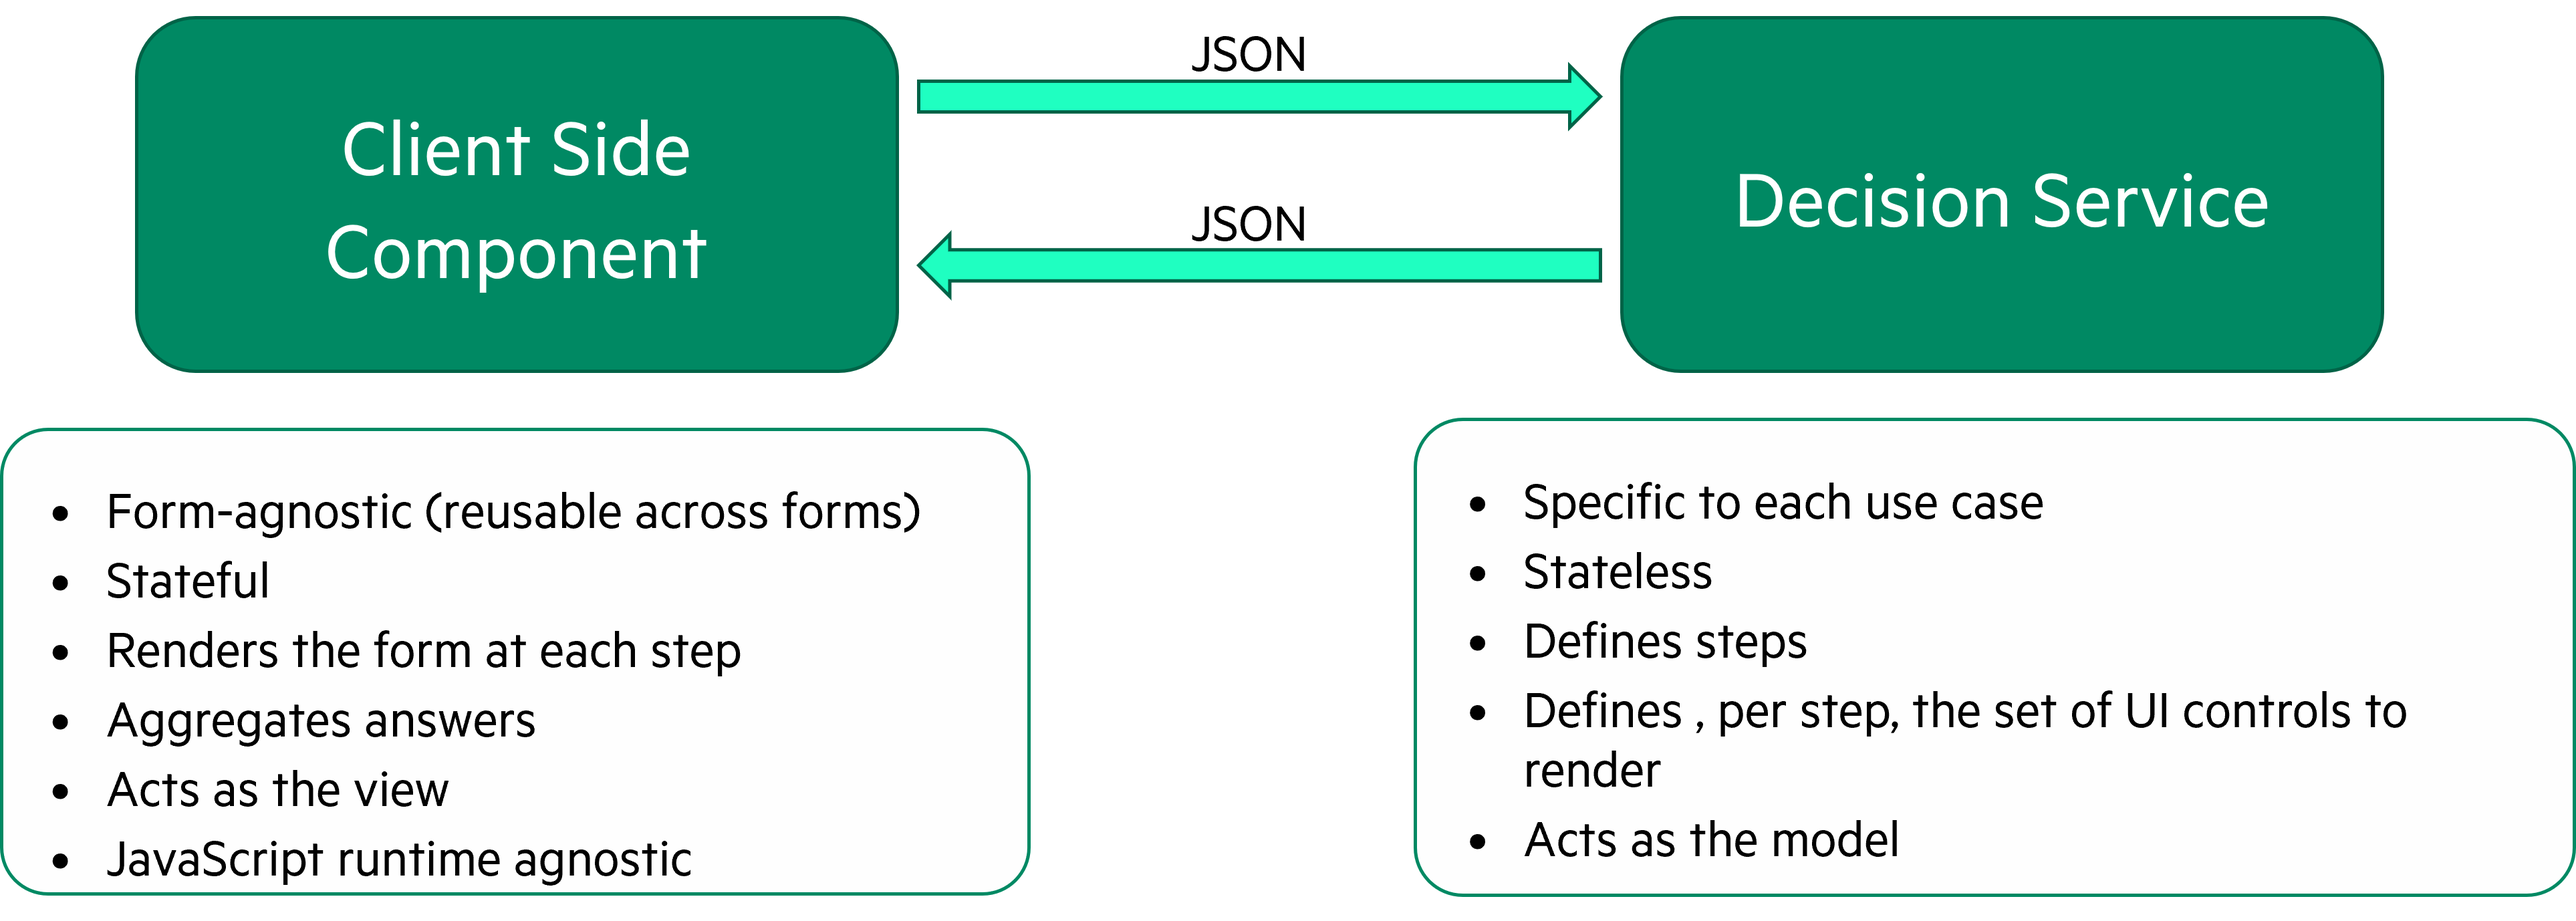
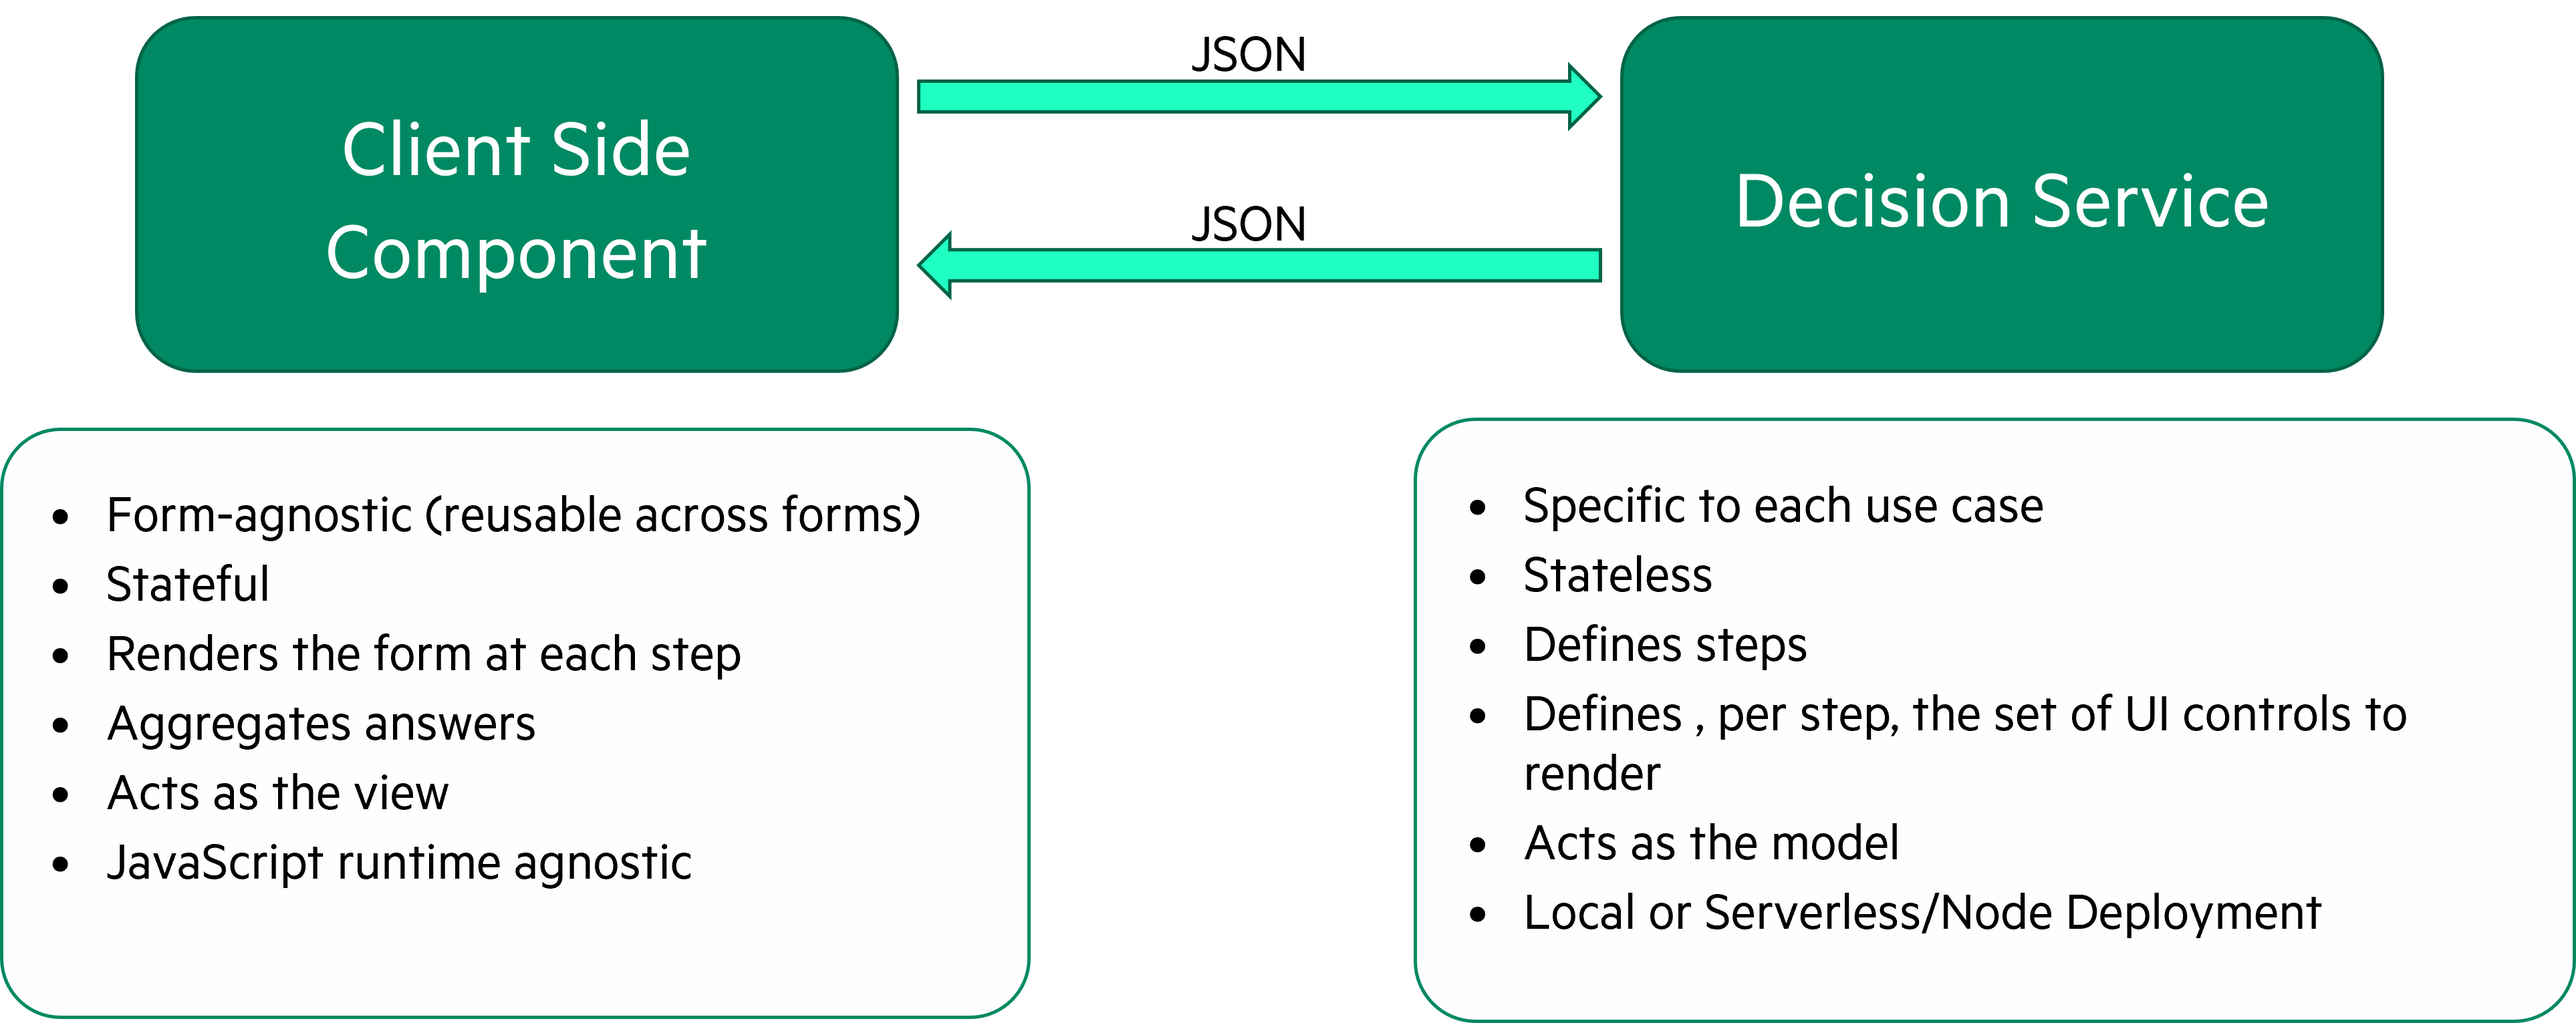
rm

diff --git a/DynamicForms/README.md b/DynamicForms/README.md
@@ -43,8 +43,6 @@ Rules define the model for what, when, and how to present prompts to an end user
 </figure>
 
 Typically, a client side component is written and maintained by a developer  while the form's rule-driven logic is written by business analysts who  best understand the subject domain of the form.
- 
-
 
 The communication between the rule author and front end developer, as well as between the actual artifacts they each produce, is facilitated by a well documented schema for the JSON to exchange IN and OUT. 
 
@@ -83,7 +81,6 @@ As more rulesheets are added to our Ruleflow, Ruletests can be run against entir
 </p>
 
 
-
 ## Building Dynamic Forms with Corticon.js
 
 It may be easiest to conceptualize Corticon.js Dynamic Forms by first checking out the samples that you can interact with as an end user, leveraging the 'test driver' web page. You can launch it right away at [this link](https://refined-github-html-preview.kidonng.workers.dev/corticon/corticon.js-samples/raw/master/DynamicForms/CSC/client.html), or review the HTML [here](https://github.com/corticon/corticon.js-samples/blob/master/DynamicForms/CSC/client.html). 
@@ -95,69 +92,64 @@ The Dynamic Forms in the sample page are rendered by a reusable Client Side Comp
 
 This framework--separating the CSC from the rules--promotes agility for development teams, as it distinguishes the 'instructions' for what to present to the user (defined in a Corticon.js decision service) and the code that renders the form based upon these instructions.
 
-Here is a visual representation of the interaction between the CSC and decision service:
 
-![Big picture view](docs/images/bigPic.PNG)
+The CSC does not know the questions to be asked at each step and what the answers mean but it knows how to render these questions and collect the answers.
 
-The CSC does not know the questions to be asked at each step and what the answers mean but it knows
-how to render these questions and collect the answers.
+The decision service driving the dynamic forms, specify what the questions, the constraints on questions and where to store the answers.  The decision services do not know the current state of the questionnaire but know what to do at each step.
 
-The decision service (DS) driving the dynamic forms, specify what the questions, the constraints on questions and where to store the
-answers.  The DS do not know the current state of the questionnaire but know what to do at each step.
-
-Typically, a CSC is written and maintained by a developer or a team of developers while the DS are written by business analysts 
+Typically, a CSC is written and maintained by a developer or a team of developers while the decision services are written by business analysts 
 who understand well the problem domain of the questionnaire.
 
 Here is a summary of the roles and responsibilities:
 
-![Big picture view](docs/images/RolesResponsibilities.PNG)
+![Big picture view](docs/images/architecture.PNG)
 
 ## Local versus Remote Decision Services
 
-It is typical for the DS to run in process with the CSC or in a remote environment.
+Decision service can be run in process within the CSC or maintained and invoked in a remote environment.
 
-For the remote option, Corticon.js supports deployments to any of 
-the major cloud vendors Serverless environments (AWS Lambda. Azure and GCP functions), 
-and to any Node.js server or traditional Java server running either in the cloud or on premises (traditional server deployments).
+For the remote option, Corticon.js supports deployments to:
 
-Of course, an in-process deployment will provide instant response time, however, there can be situations where you may want to run the model remotely.  
-Here are the cases we have encountered with customers:
-1) For Mobile Apps: a decision service hosted remotely can be updated very easily without having 
-   to force the user to reinstall the app.
-2) Security:
+-  Any of the major cloud vendors' serverless environments (AWS Lambda, Azure and GCP functions)
+-  Node.js servers
+-  Traditional Java server running either in the cloud or on premises (traditional server deployments)
+
+In-process deployments provide essentially instant response time, however, there are considerations for when it might make more sense to run maintain this logic in remote environments, such as:
+
+- For Mobile Apps: a decision service hosted remotely can be updated very easily without having to force the user to reinstall the app.
+- To address security:
       * we don’t want to expose some of the data used in the decision process
       * we want to have the decision service access various data sources inside the firewall.
       * we don't to risk exposing the decision service to reverse engineering 
 
-This is illustrated in the 2 diagrams below
+There are only minor distinctions between how the CSC and decision service interactions take place when running in-process or remotely:
 
 ![In-process decision service](docs/images/LocalDS.png)
 
 ![Remote decision service](docs/images/RemoteDS.png)
 
-# More Information
+## Building and integrating a rule-driven form's components
 
-For more detail on the CSC and the DS please refer to these documents:
-1. [Authoring a decision service (DS)](docs/AuthoringDecisionService.md)
+For more detail on the CSC and the decision service please refer to these documents:
+
+1. [Authoring a decision service (decision service)](docs/AuthoringDecisionService.md)
 2. [Authoring a client side component (CSC)](docs/AuthoringClientSideComponents.md)
 
-# Benefits
+## Summary
 
-A single component for rendering dynamic questionnaires can be reused with multiple 
-applications as illustrated below:
+<figure>
+<img align="right" width="400"  src="docs/images/SameModelforDifferentRenderersSmaller.png" 
+ title="Rule Vocabulary">
+</figure>
 
-![Reuse CSC across applications](docs/images/ReuseCSCAcrossAppsSmaller.jpg)
+- A single component for rendering dynamic questionnaires can be reused with multiple applications 
+- In other words, to implement a new use cases, you only need to develop the *model* for the new use case. 
+- Additionally, the same model can be used to drive dynamic questionnaires on different platforms (for example, Web page and Mobile device).
+- All of this provides agility and improves delivery time.
 
-In other words, to implement a new use cases, you only need to develop the model for the new use case. 
 
-Additionally, the same model can be used to drive dynamic questionnaires on different platforms 
-(for example, Web page and Mobile device).
 
-![Web page and Mobile device](docs/images/SameModelforDifferentRenderersSmaller.png)
-
-All of this provides agility and improves delivery time.
-
-# Additional Resources
+## Additional Resources
 
 Find out more about [Corticon.js](https://www.progress.com/corticon-js)
 
